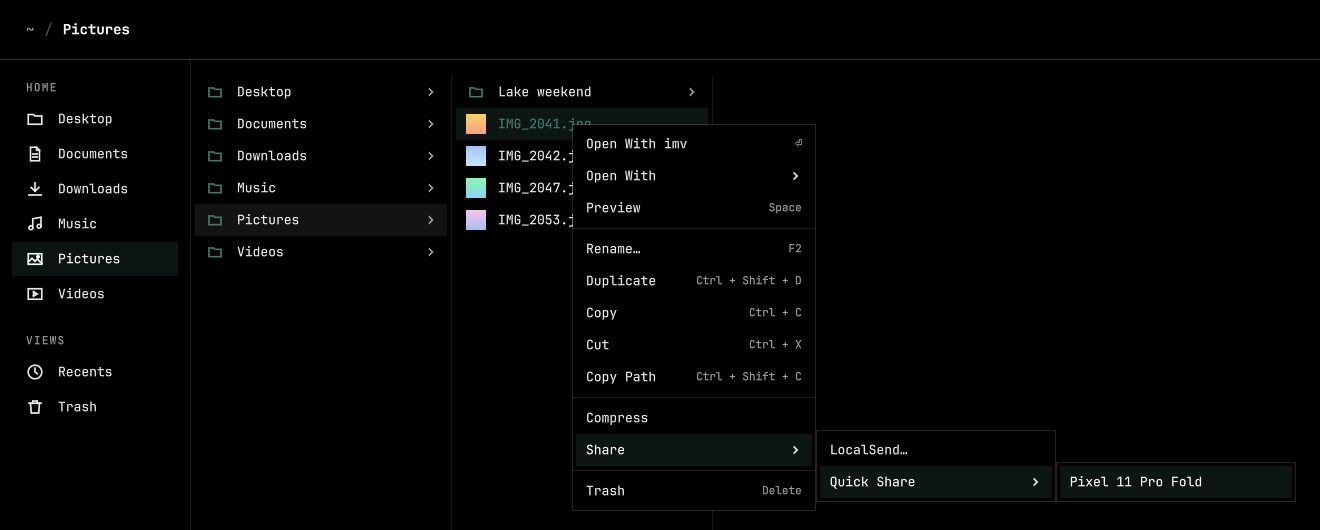
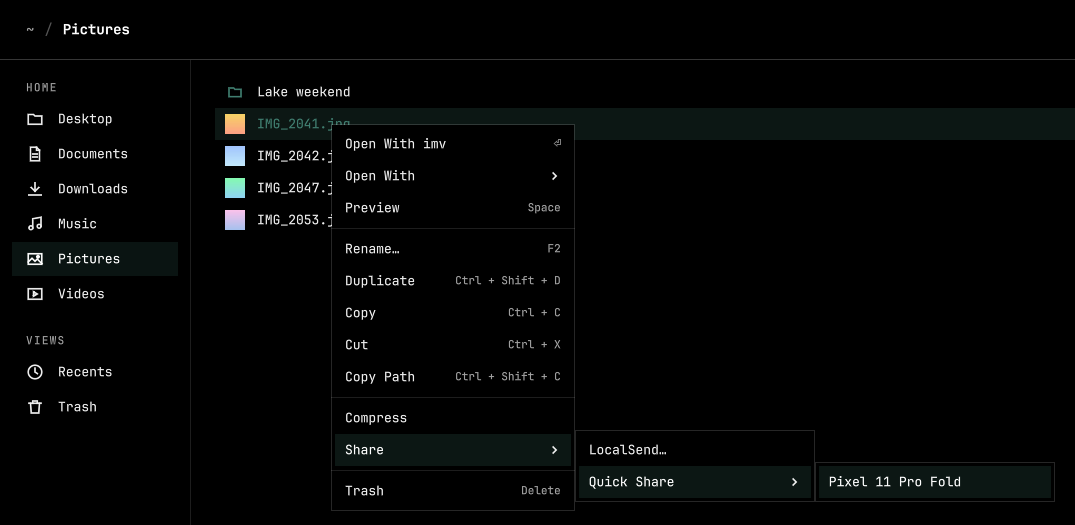
Fix the README's removal steps and narrow the sending screenshot
Deleting the plugin folder while receiving was on left the receive
service enabled and failing at every login, so Remove now disables the
service and deletes its unit and state first. The intro says the phone
side is Android's built-in Quick Share, the note reads as a sentence,
and Behavior no longer repeats the Features paragraph about asking.

The sending screenshot uses Folio's list layout, which keeps the menu
next to the file and the image 1075 pixels wide instead of 1320.

Claude-Session: https://claude.ai/code/session_01UGcPV7StKH7253HLHoLHHL

diff --git a/README.md b/README.md
@@ -4,7 +4,7 @@
 
 # folio-quickshare
 
-A [Folio](https://github.com/omacom/folio) plugin that sends and receives files with nearby Android devices using native Quick Share.
+A [Folio](https://github.com/omacom/folio) plugin that sends and receives files with nearby Android devices over Quick Share. The phone uses Android's built-in Quick Share, so it needs no extra app.
 
 ```sh
 git clone https://github.com/JaxonWright/folio-quickshare ~/.local/share/folio/plugins/quickshare
@@ -47,17 +47,21 @@ Press F5 in an open Folio window, or start Folio. That is the whole install. On 
 To update, run `git pull` in that folder. An update also moves the pinned quickshare version, so the two always match.
 
 ```sh
-cd ~/.local/share/folio/plugins/quickshare && git pull 
+cd ~/.local/share/folio/plugins/quickshare && git pull
 ```
 
 ## Remove
 
+Stop receiving first, so no service is left running a plugin that is gone, then delete the plugin and what it keeps.
+
 ```sh
-rm -r ~/.local/share/folio/plugins/quickshare
+systemctl --user disable --now folio-quickshare-receive.service
+rm -f ~/.config/systemd/user/folio-quickshare-receive.service
+rm -rf ~/.local/share/folio/plugins/quickshare ~/.local/state/folio-quickshare
 ```
 
 > [!NOTE]
-> As soon Folio makes it easier to manage 3rd-party plugins, these processes will be smoothed out to follow that
+> Once Folio has its own way to manage third-party plugins, these steps will move to it.
 
 ## Behavior
 
@@ -75,7 +79,7 @@ Sending needs no firewall rule, because this computer opens every connection.
 
 **Receive with Quick Share** on a folder starts a systemd user service, `folio-quickshare-receive.service`, that runs `quickshare receive` into that folder. It keeps running after Folio closes and starts again at the next login. While it runs, the folder carries the Quick Share mark in Folio's sidebar, and phones nearby list this computer by its hostname. **Stop Receiving with Quick Share**, on any folder, stops the service and disables it.
 
-Nothing is saved without asking. Each incoming transfer shows a notification with the sender, the files, their size and a PIN, and Accept and Decline buttons. Check that the PIN matches the one on the phone before you accept. Closing the notification, or leaving it for a minute, declines. When files arrive, a notification names them and has a button that opens the folder in Folio.
+Check that the PIN in the notification matches the one on the phone before you accept. Closing the notification, or leaving it for a minute, declines. When files arrive, a notification names them and has a button that opens the folder in Folio.
 
 A phone connects to this computer to send, so the firewall has to allow TCP port 53318. Omarchy's ufw denies incoming connections, so allow it once with `sudo ufw allow 53318/tcp`. **Receive with Quick Share** runs `quickshare doctor` first and refuses with that fix when the port is blocked.
 
